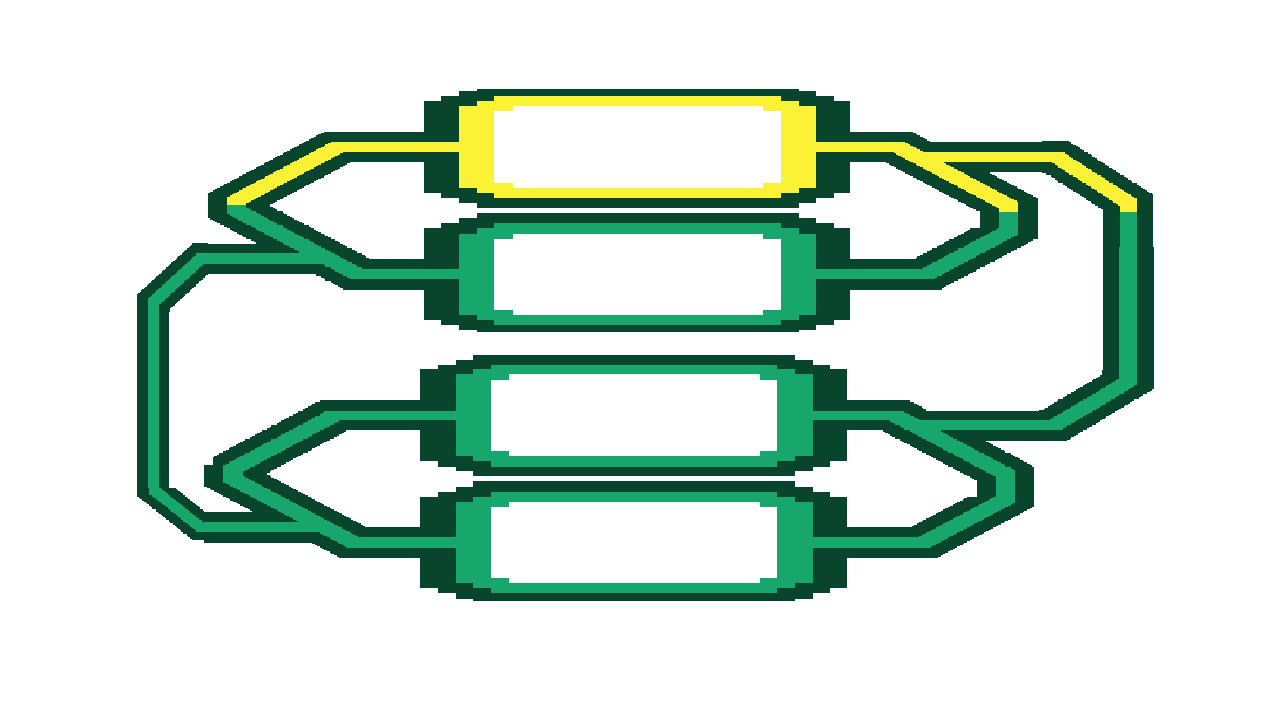
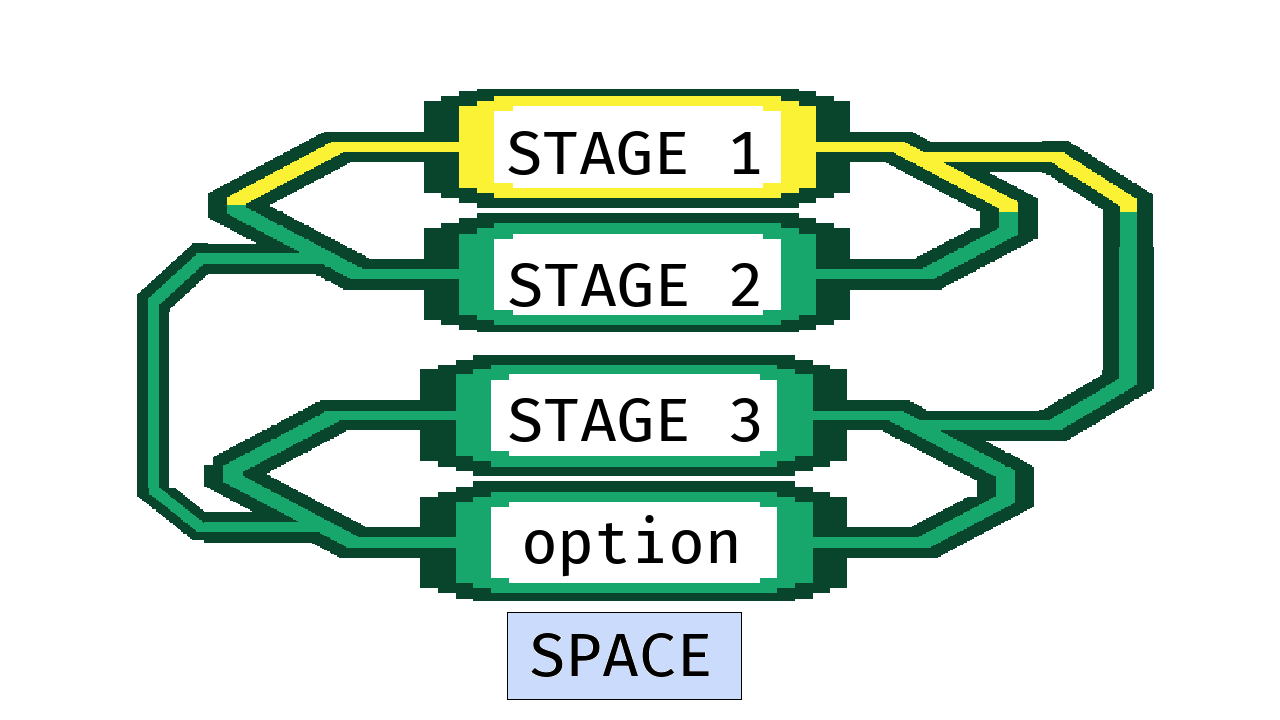
ui

diff --git a/Scene/GameTutoScene.cpp b/Scene/GameTutoScene.cpp
@@ -42,20 +42,27 @@ void GameTutoScene::Initialize()
 	spriteSele2ani2_->Initialize();
 	spriteSele2ani3_ = Sprite::Create(44, { 0,0 });
 	spriteSele2ani3_->Initialize();
-	/*spriteSele2ani4_ = Sprite::Create(45, { 0,0 });
-	spriteSele2ani4_->Initialize();*/
 	
+	spriteSele3ani1_ = Sprite::Create(46, { 0,0 });
+	spriteSele3ani1_->Initialize();
+	spriteSele3ani2_ = Sprite::Create(47, { 0,0 });
+	spriteSele3ani2_->Initialize();
+	spriteSele3ani3_ = Sprite::Create(48, { 0,0 });
+	spriteSele3ani3_->Initialize();
 
-
+	spriteSele4ani1_ = Sprite::Create(49, { 200,150 });
+	spriteSele4ani1_->Initialize();
+	spriteSele4ani2_ = Sprite::Create(50, { 200,150 });
+	spriteSele4ani2_->Initialize();
+	spriteSele4ani3_ = Sprite::Create(51, { 200,150 });
+	spriteSele4ani3_->Initialize();
 }
 
 void GameTutoScene::Update(Input* input, GamePad* gamePad, MouseInput* mouse)
 {
 	gamePad->Update();
-	if (input->TriggerKey(DIK_RETURN) || gamePad->ButtonTrigger(X))
-	{
-		controller_->ChangeSceneNum(S_PLAY);
-	}
+	sceneObj_->skydomeO_->Update();
+
 	assert(input);
 	controller_->camera_->Update();
 
@@ -76,6 +83,12 @@ void GameTutoScene::Update(Input* input, GamePad* gamePad, MouseInput* mouse)
 		else if (isSeleChange == 2) {
 			isSele2Flag = true;
 		}
+		else if (isSeleChange == 3) {
+			isSele3Flag = true;
+		}
+		else if (isSeleChange == 4) {
+			isSele4Flag = true;
+		}
 	}
 	if (isSele1Flag == true) {Sele1Timer++;}
 	if (Sele1Timer > 30) {
@@ -89,13 +102,44 @@ void GameTutoScene::Update(Input* input, GamePad* gamePad, MouseInput* mouse)
 		isSele2Flag = false;
 	}
 
+	if (isSele3Flag == true) { Sele3Timer++; }
+	if (Sele3Timer > 30) {
+		Sele3Timer = 30;
+		isSele3Flag = false;
+	}
+
+	if (isSele4Flag == true) { Sele4Timer++; }
+	if (Sele4Timer >= 30) {
+		Sele4Timer = 30;
+		isSele4Flag = false;
+	}
+
 	if (Sele1Timer >= 30) {
 		controller_->ChangeSceneNum(S_PLAY);
+	}
+
+	if (Sele4Timer >= 5) {
+		if (input->TriggerKey(DIK_SPACE)) {
+			Sele4Timer = 0;
+		}
 	}
 }
 
 void GameTutoScene::Draw()
 {
+	//// 3Dオブジェクト描画前処理
+	Object3d::PreDraw(controller_->dxCommon_->GetCommandList());
+
+	//// 3Dオブジェクトの描画
+
+	/*fbxObject->Draw(dxCommon_->GetCommandList());*/
+
+	sceneObj_->skydomeO_->Draw();
+
+
+	//// 3Dオブジェクト描画後処理
+	Object3d::PostDraw();
+
 #pragma region 前景スプライト描画
 	// 前景スプライト描画前処理
 	Sprite::PreDraw(controller_->dxCommon_->GetCommandList());
@@ -124,8 +168,20 @@ void GameTutoScene::Draw()
 		if (Sele2Timer >= 21 && Sele2Timer <= 24) { spriteOk1_->Draw(); }
 		if (Sele2Timer >= 25 && Sele2Timer <= 30) { spriteOk_->Draw(); }
 	}
-	
-	
+	else if (isSeleChange == 3) {
+		if (Sele3Timer >= 1 &&  Sele3Timer <= 30) { spriteSele3ani1_->Draw(); }
+		if (Sele3Timer >= 6 &&  Sele3Timer <= 30) { spriteSele3ani2_->Draw(); }
+		if (Sele3Timer >= 11 && Sele3Timer <= 30) { spriteSele3ani3_->Draw(); }
+		if (Sele3Timer >= 15 && Sele3Timer <= 17) { spriteOk1_->Draw(); }
+		if (Sele3Timer >= 18 && Sele3Timer <= 20) { spriteOk_->Draw(); }
+		if (Sele3Timer >= 21 && Sele3Timer <= 24) { spriteOk1_->Draw(); }
+		if (Sele3Timer >= 25 && Sele3Timer <= 30) { spriteOk_->Draw(); }
+	}
+	else if (isSeleChange == 4) {
+		if (Sele4Timer >= 1 && Sele4Timer <= 30) { spriteSele4ani1_->Draw(); }
+		if (Sele4Timer >= 6 && Sele4Timer <= 30) { spriteSele4ani2_->Draw(); }
+		if (Sele4Timer >=11 && Sele4Timer <= 30) { spriteSele4ani3_->Draw(); }
+	}
 
 	/// <summary>
 	/// ここに前景スプライトの描画処理を追加できる
@@ -134,5 +190,6 @@ void GameTutoScene::Draw()
 	// スプライト描画後処理
 	Sprite::PostDraw();
 
+	
 #pragma endregion
 }

diff --git a/Scene/PlayScene.cpp b/Scene/PlayScene.cpp
@@ -169,11 +169,11 @@ void PlayScene::Update(Input* input, GamePad* gamePad, MouseInput* mouse)
 	controller_->camera_->SetTarget({ player_->GetPosition().x - 20,player_->GetPosition().y, player_->GetPosition().z});
 	controller_->camera_->Update();
 
-	spriteJumpPosition.x = sceneObj_->plaobject->worldTransform.translation_.x + 610.0f;
+	spriteJumpPosition.x = sceneObj_->plaobject->worldTransform.translation_.x + 740.0f;
 	spriteJumpPosition.y = sceneObj_->plaobject->worldTransform.translation_.y + 360.0f;
 	spriteJump_->SetPosition(spriteJumpPosition);
 
-	spriteDashPosition.x = sceneObj_->plaobject->worldTransform.translation_.x + 590.0f;
+	spriteDashPosition.x = sceneObj_->plaobject->worldTransform.translation_.x + 710.0f;
 	spriteDashPosition.y = sceneObj_->plaobject->worldTransform.translation_.x + 310.0f;
 	spriteDash_->SetPosition(spriteDashPosition);
 

diff --git a/Scene/SceneObjects.cpp b/Scene/SceneObjects.cpp
@@ -42,7 +42,15 @@ void SceneObjects::Initialize(SceneManager* controller)
 	Sprite::LoadTexture(42, L"Resources/sele2ani1.png");
 	Sprite::LoadTexture(43, L"Resources/sele2ani2.png");
 	Sprite::LoadTexture(44, L"Resources/sele2ani3.png");
-	Sprite::LoadTexture(45, L"Resources/sousa.png");
+
+	Sprite::LoadTexture(46, L"Resources/sele3ani1.png");
+	Sprite::LoadTexture(47, L"Resources/sele3ani2.png");
+	Sprite::LoadTexture(48, L"Resources/sele3ani3.png");
+
+	Sprite::LoadTexture(49, L"Resources/sousa.png");
+	Sprite::LoadTexture(50, L"Resources/sousa.png");
+	Sprite::LoadTexture(51, L"Resources/sousa.png");
+
 
 	//Sprite::LoadTexture(2, L"Resources/mario.jpg");
 

diff --git a/Scene/GameTutoScene.h b/Scene/GameTutoScene.h
@@ -54,8 +54,19 @@ private:	//メンバ変数
 	bool isSele2Flag = false;
 	int Sele2Timer = 0;
 
-	//操作説明
-	Sprite* spriteSele2ani4_ = nullptr;
+	//セレクト2アニメーション
+	Sprite* spriteSele3ani1_ = nullptr;
+	Sprite* spriteSele3ani2_ = nullptr;
+	Sprite* spriteSele3ani3_ = nullptr;
+	bool isSele3Flag = false;
+	int Sele3Timer = 0;
+
+	//操作説明アニメーション
+	Sprite* spriteSele4ani1_ = nullptr;
+	Sprite* spriteSele4ani2_ = nullptr;
+	Sprite* spriteSele4ani3_ = nullptr;
+	bool isSele4Flag = false;
+	int Sele4Timer = 0;
 
 
 };
